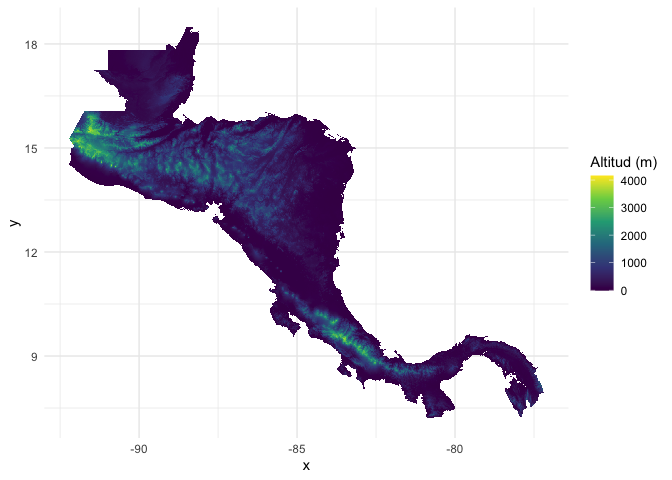
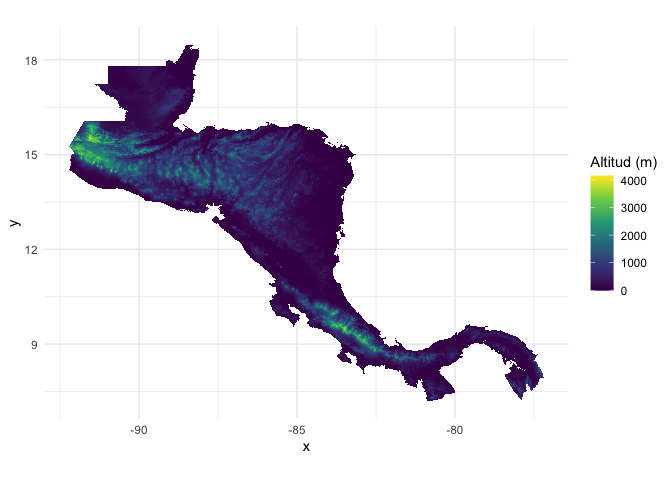
new readme and map

diff --git a/README.md b/README.md
@@ -46,7 +46,8 @@ ggplot(ca_outline) +
 ggplot() +
   geom_stars(data = ca_elevation) +
   scale_fill_viridis_c(name = "Altitud (m)", na.value = "transparent") +
-  theme_minimal()
+  theme_minimal() +
+  coord_equal()
 ```
 
 <img src="man/figures/README-unnamed-chunk-2-1.png" width="100%" />
